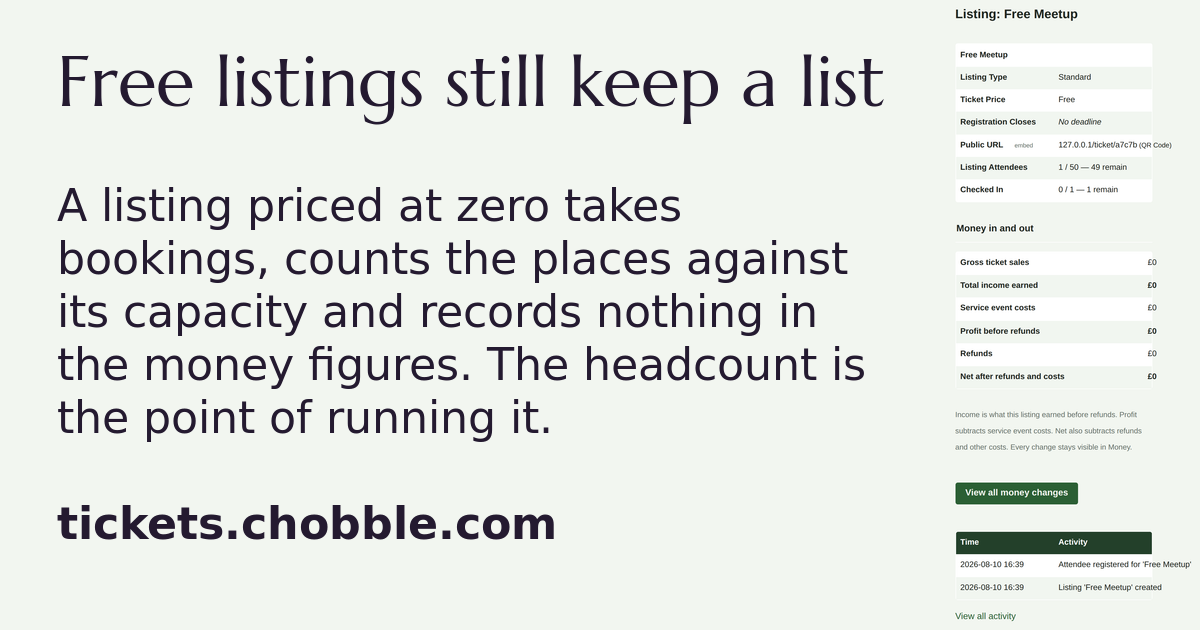
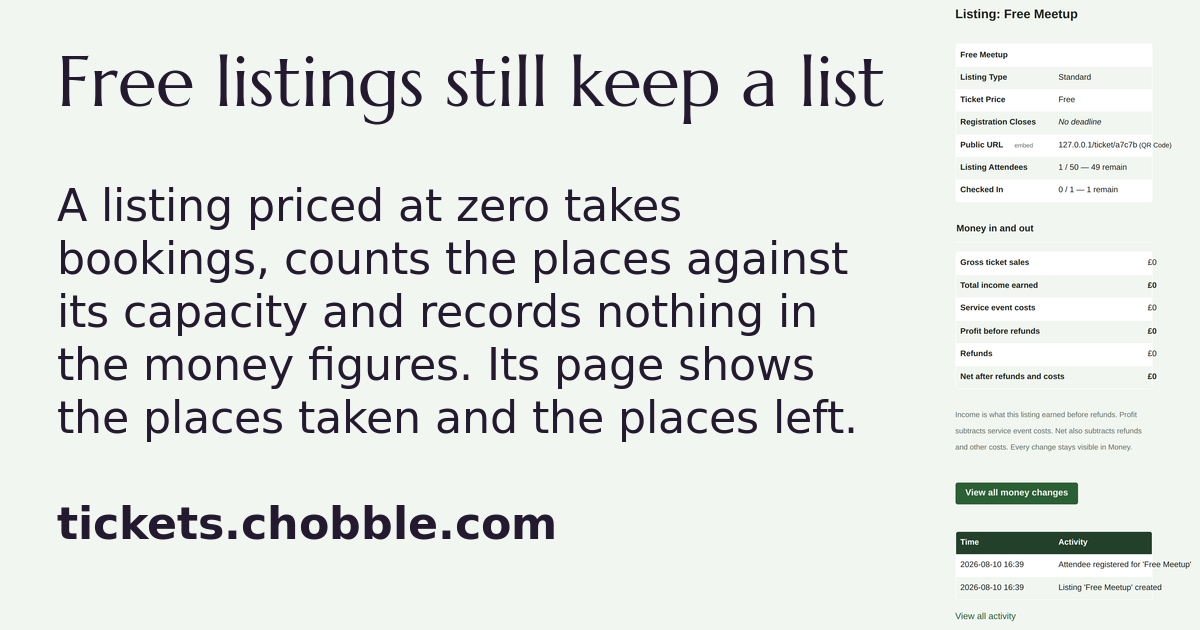
Say what the page shows instead of why somebody ran it
The social card's last line was "The headcount is the point of running it",
which tells an organiser what their motive is. Neither the case nor the
screenshot establishes that; they establish that a free booking uses a place
and records no money. The line now says what the page shows, which is the
places taken and the places left.

The card is drawn from this copy at import, so the evidence was re-read and
re-imported rather than the words being edited underneath a drawn card.

Claude-Session: https://claude.ai/code/session_01UU8geYkKNGrFu5ArzfxSC6

Changed region(s): [[0.1233, 0.5429, 0.74, 0.6937]]

diff --git a/scripts/social-screenshot-copy.js b/scripts/social-screenshot-copy.js
@@ -169,7 +169,7 @@ export const SOCIAL_SCREENSHOT_COPY = {
   },
   "free-headcount-no-money": {
     heading: "Free listings still keep a list",
-    body: "A listing priced at zero takes bookings, counts the places against its capacity and records nothing in the money figures. The headcount is the point of running it.",
+    body: "A listing priced at zero takes bookings, counts the places against its capacity and records nothing in the money figures. Its page shows the places taken and the places left.",
   },
   "one-days-audience": {
     heading: "Email one date of a course",
